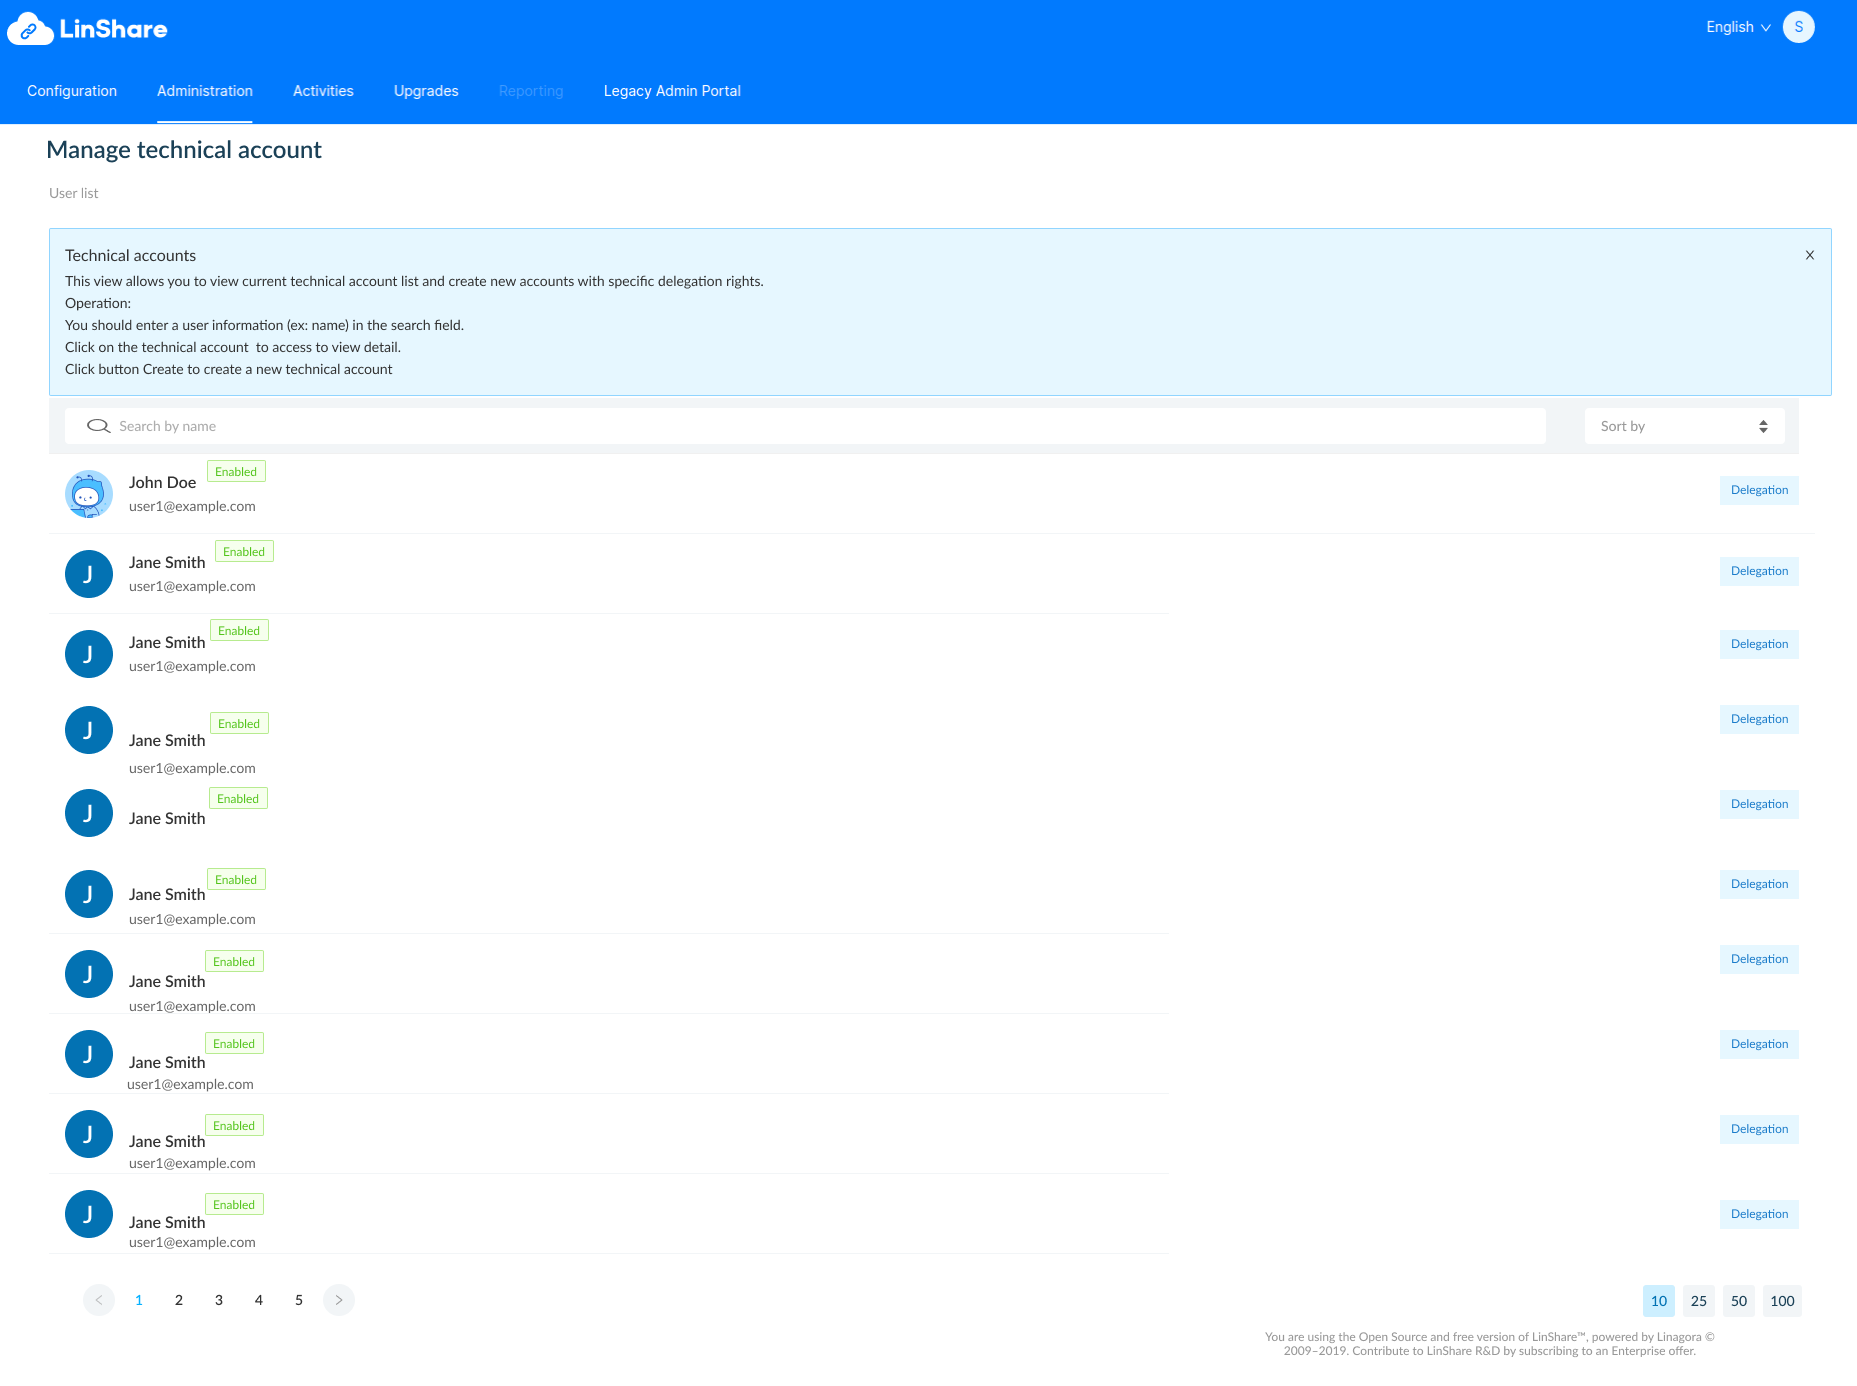
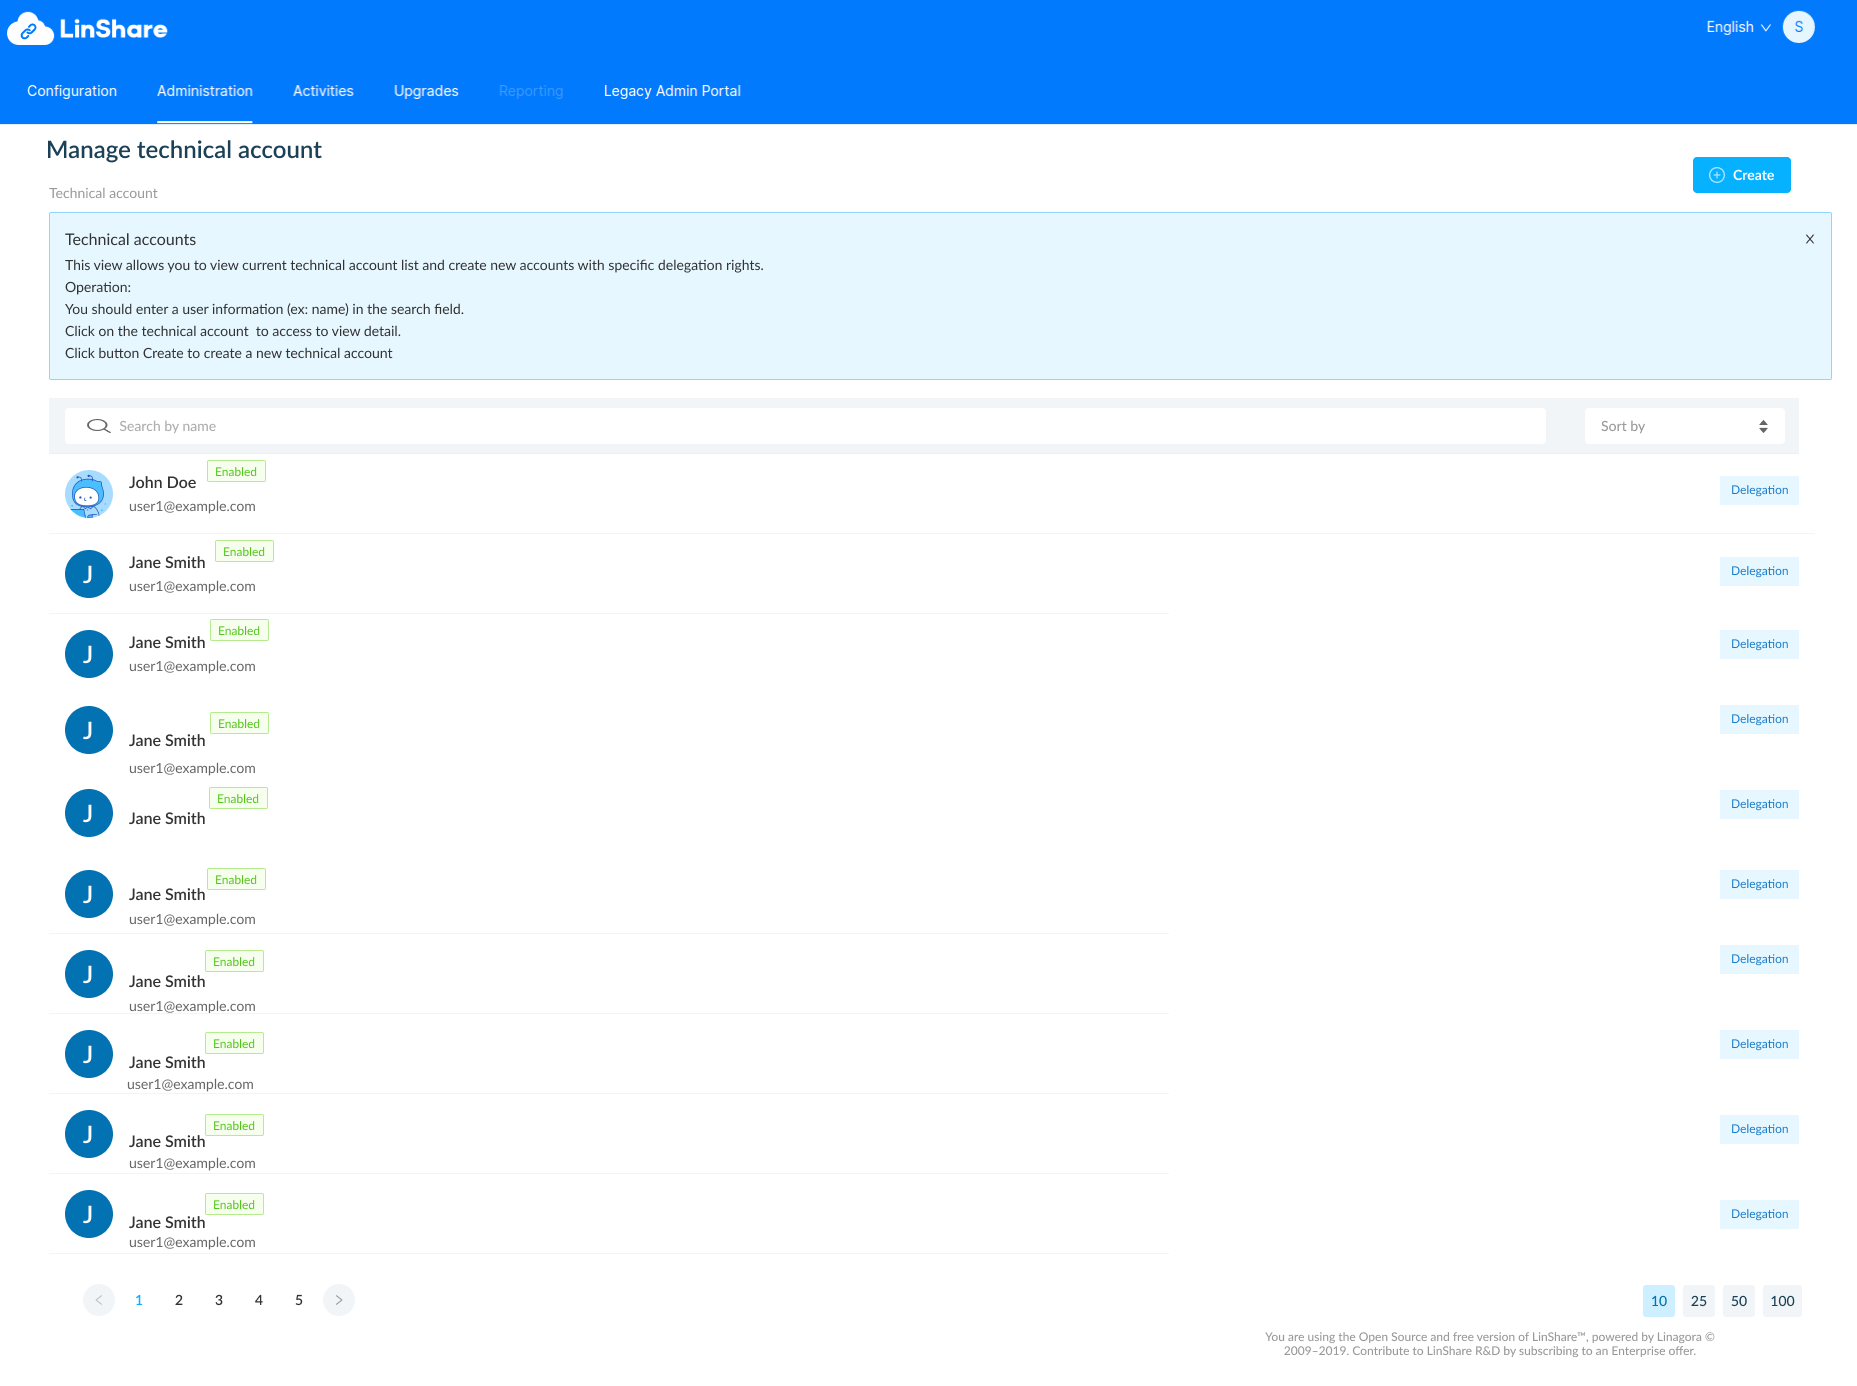
Update story 565 admin can view and filter technical account list

Changed region(s): [[0.0312, 0.0931, 0.9995, 0.3102]]

diff --git a/documentation/EN/epics/new-admin-portal/story-565-admin-can-manage-technical-account.md b/documentation/EN/epics/new-admin-portal/story-565-admin-can-manage-technical-account.md
@@ -1,0 +1,130 @@
+# Summary
+
+* [Related EPIC](#related-epic)
+* [Definition](#definition)
+* [UI Design](#ui-design)
+* [Misc](#misc)
+
+## Related EPIC
+
+* [New admin portal](./README.md)
+
+## Definition
+
+#### Preconditions
+
+* Given that I am root admin of LinShare
+* After log-in successfully to Admin portal, I select menu Administration => Technical account 
+* The screen listing technical accounts will be displayed 
+
+#### Description
+
+**UC1. View and filter technical account list**
+
+*  In The screen Technical account  list, I can see:
+    * Information tooltip: When I click on the icon information, a page description will be shown, then I click on the icon again, the description will be collapsed.
+    * Technical account list including:
+        * User icon
+        * Name 
+        * Email 
+        * Status: Enabled or disabled
+        * Role: Currently there is only 1 role : Delegation 
+* A search bar
+* A sort field
+* When I click on the search bar, there will be a drop-down list of search criteria including:
+    * Status: When select this search criteria, the search bar will display: Status = "dropdown list" The options are: Enabled/Disabled. I select one status, the search tag is completed with a delete icon.Then I click enter the system will search technical account which have selected status.
+    * Name: When I select this search criteria, the search bar will display: Name contains = "text input". I click Enter, the search tag is completed and an icon Delete. Then I click enter the system will search technocal accounts which have field Name contains text inputted.
+    * Identifier: When I select this search criteria, the search bar will display: Id = "text input". I click Enter, the search tag is completed and an icon Delete. Then I click enter the system will search technical accounts which have id contains  inputted text. 
+* When I start typing on search bar, the system will show default search criteria is email 
+- I can search technical account by one of above criteria or combine them
+- Each search criteria in the search bar is seperated by a delete icon. I can click this icon to delete the criteria
+- After select one criterion in search bar, that option is hidden in the dropdown list of search criteria.
+* When I click on Sort field, there will be drop-down list containing sort criteria: Name, Email, Creation date, Modification date.
+* I can select sort criteria from the list and use the arrow up and down to change order of sorting.
+* The default number of displayed items is 25, I can change the number of items at the bottom of page.
+
+**UC2. Create a technical account**
+
+- On listing technical account screen, I click on button "Create", the screen Create new technical account will be displayed.
+- On this screen, I can input fields:
+   - Name: Mandatory, text field 
+   - Email: Mandatory, text field
+   - Role: A drop-down list. Currently, there is only 1 role: Delegation and it is selected by default 
+   - Checkbox: Enable/Disable account
+   - Password field: A text field. When I finish inputting this field, the system will check if the password is in compliance with the rules and display error messages if any.
+   - Confirm password: This field must be as same as Value of field Password above 
+- After I input all field and click button Create, system will validate, if there is no error, the account is created successfully with a toast message 
+- If there is any blank field, it will be highlighted in red with an error message
+- If the email is already existing in the system, there will be an error message
+- If the password is not correct, the help message will be highlighted in red 
+- If the value of  "Confirm password" is not matched with "Password", there will be an error message 
+
+**UC3 Edit a technical account**
+
+- On the technical account list, I select one account then the screen Account detail will be opened 
+- On this screen I can see 2 tabs: Account detail and Change password
+- On the first tab Account detail, I can see: 
+- None-editable information includes:
+   - Identifier: This field is generated by the system and is used to log-in 
+   - Role
+   - Creation date
+   - Modification date 
+- Editable fields includes:
+   - Name
+   - Email
+   - Checkbox: I can tick/un-tick the checkbox to enable/disable account
+- Permissions: This includes a list of all available permissions for this user's role. I can select/unselect checkbox of each permission on the list 
+- When I click button Save, the system will validate if there is no error, the updates are saved 
+- On the second tab Change password, I can see 3 fields:
+   - Current password
+   - New password
+   - Retype new password
+   - After I input 3 fields and click button Save, the system will validate: 
+     - If the current password is correct 
+     - If the New password is complied with the rule above 
+     - IF the Re-type new password is matched with New password 
+   - If there is no error, the new password is saved and there will be a notification message 
+
+**UC4. Delete a technical account**
+
+- On Account detail screen, I can see a button Delete
+- When I click on this button, there will be a confirmation popup: You are about to delete this technical account, this procedure is irreversible. Do you want to proceed??"
+- If I choose Yes, the account is removed and I am back to the listing technical account screen.
+
+**UC6. Lock/unlock a technical account**
+
+- When a technical account log-in unsuccessfully several times, the account will be locked by the rule:
+   - After 3 attempts : account is locked for 10 minutes. 
+   - After 6 attempts : account is locked for 20 minutes. 
+   - After 9 attempts : account is locked for 60 minutes (1 hour)
+   - After 12 attempts : account is locked for 1440 minutes (1 day)
+   - After 15 attempts : account is locked indefinitely.
+
+- After locking period, the account will be unlocked automatically, except fot the case locking indefinitely.
+- When a technical account is locked, when I open detail screen of that account on admin portal, I can see a message "This user is locked due to many failed login attempts" and a button Unlock
+- When I click on this button, the account is unlocked.
+
+#### Postconditions
+
+- When a technical account is created successfully, an identifier is generated for that account and user can use this information with password to log-in.
+- This technical account can perform action on behalf of any user in the platform. The permissions can be edited after account creation. 
+- After account deletion, user cannot use information of that account to log-in to LinShare on behalf of other user
+
+[Back to Summary](#summary)
+
+## UI Design
+
+#### Mockups
+
+![story565](./mockups/565.1.png)
+![story565](./mockups/565.2.png)
+![story565](./mockups/565.3.png)
+![story565](./mockups/565.4.png)
+
+#### Final design
+
+
+[Back to Summary](#summary)
+## Misc
+
+[Back to Summary](#summary)
